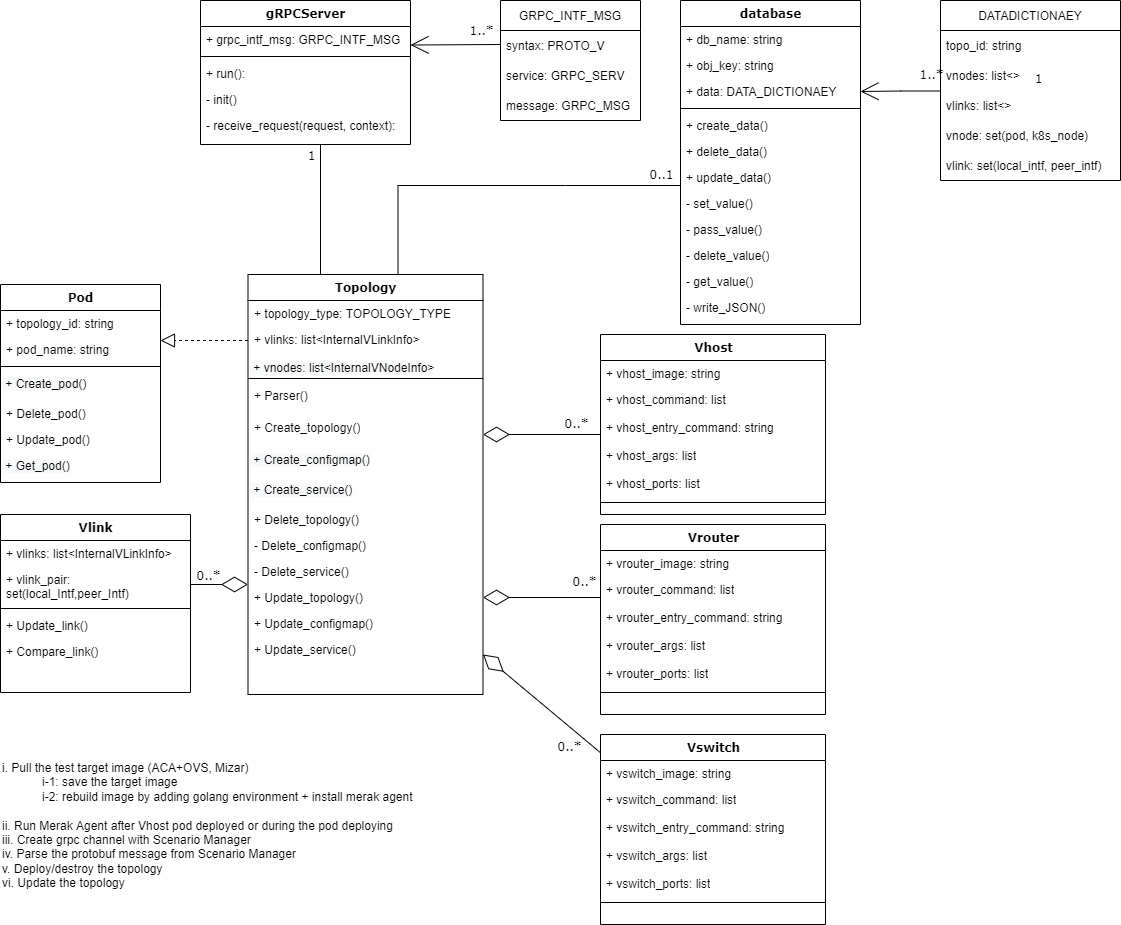
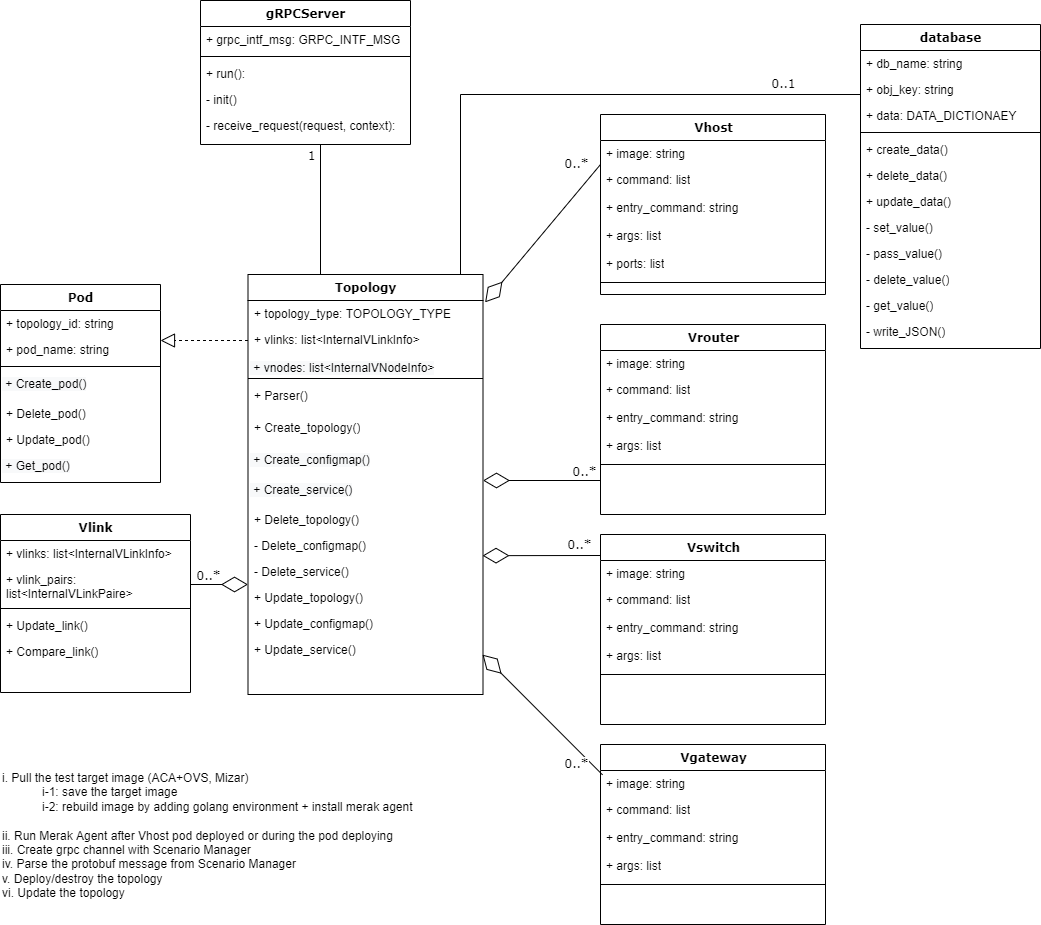
update class diagram

diff --git a/docs/components/merak-topo.md b/docs/components/merak-topo.md
@@ -34,7 +34,19 @@ This is the main workflows of Merak-topo based on the received message from the 
 
 
 ## Data Schema
-This data schema is adopted from the defined data in the Scenario Manager, including  Common enum type and Topology info.
+The data schemas of common enum type and topology info are adopted from the defined data in the Scenario Manager. The data schemas of gRPC and database info are defined for Merak-topo gRPC server and database.
+
+### Common enum type
+
+![merak-topo data schema of the common enum type](../images/merak-topo_data_schema_enum_type.png)
+
+### Topology Info
+
+![merak-topo data schema of the topology info](../images/merak-topo_data_schema_topology_info.png)
+
+### gRPC & Database Info
+
+![merak-topo data schema of the gRPC and database info](../images/merak-topo_data_schema_grpc_db.png)
 
 ## Class Diagram
 This is the class diagram of Merak-topo with a gRPC Server and database for communicating with the Service Manager and saving the local topology data.
